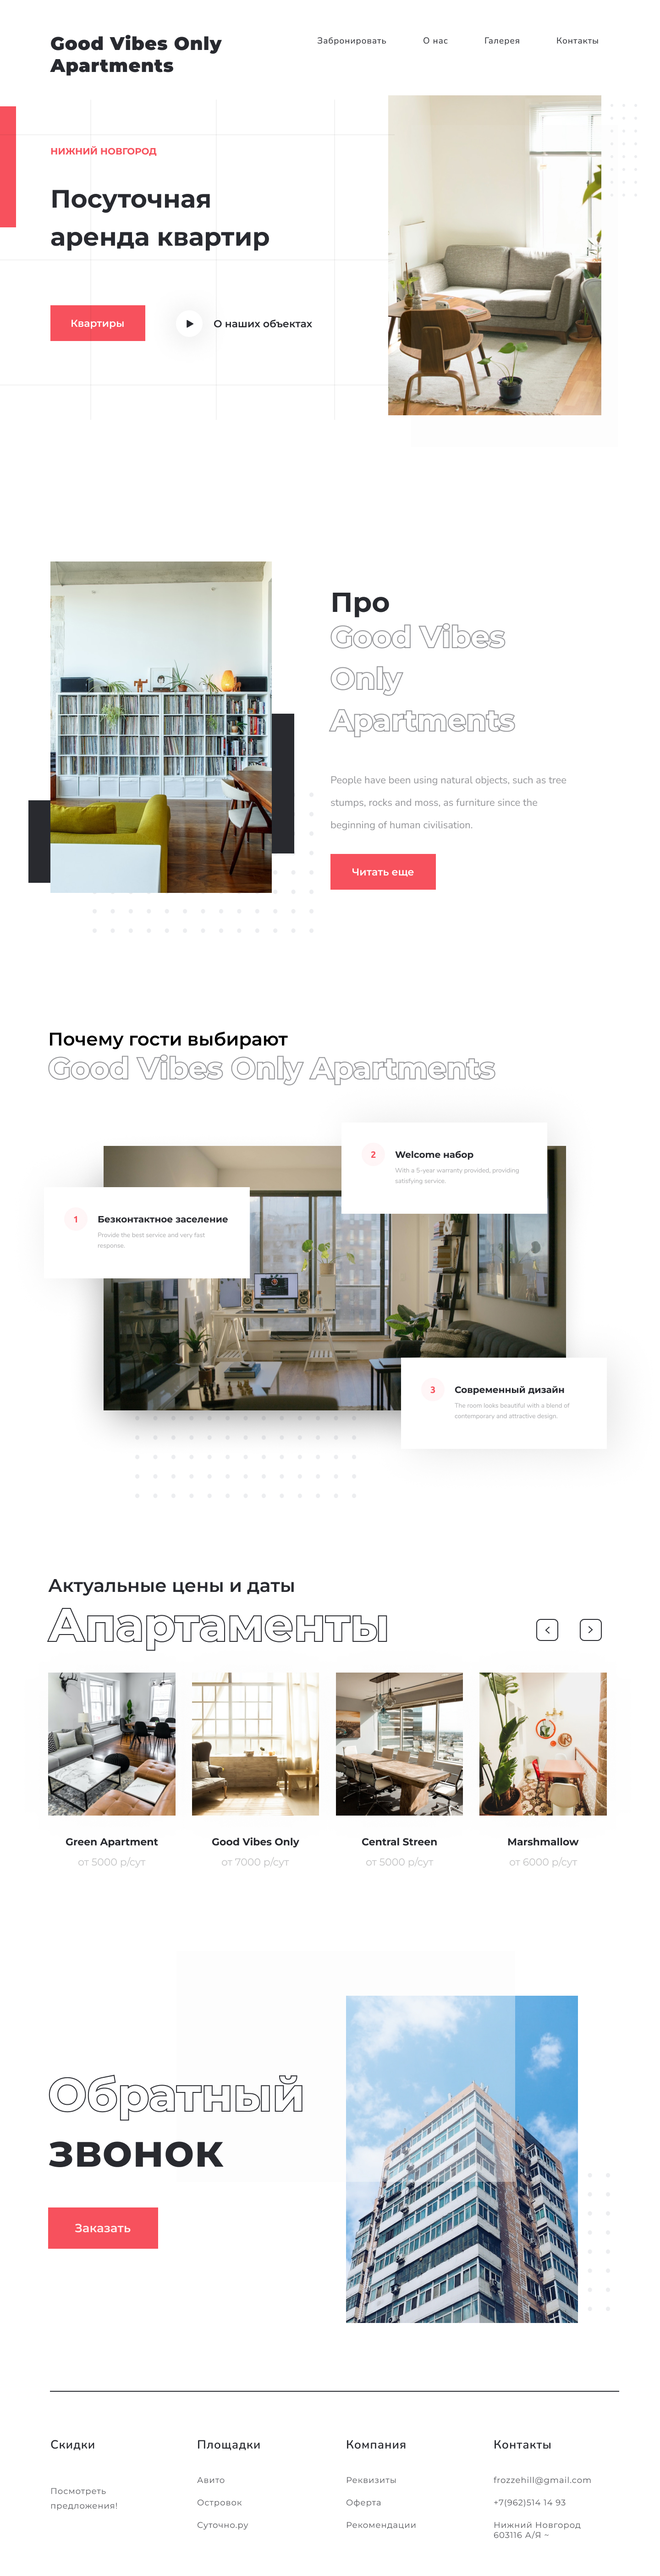
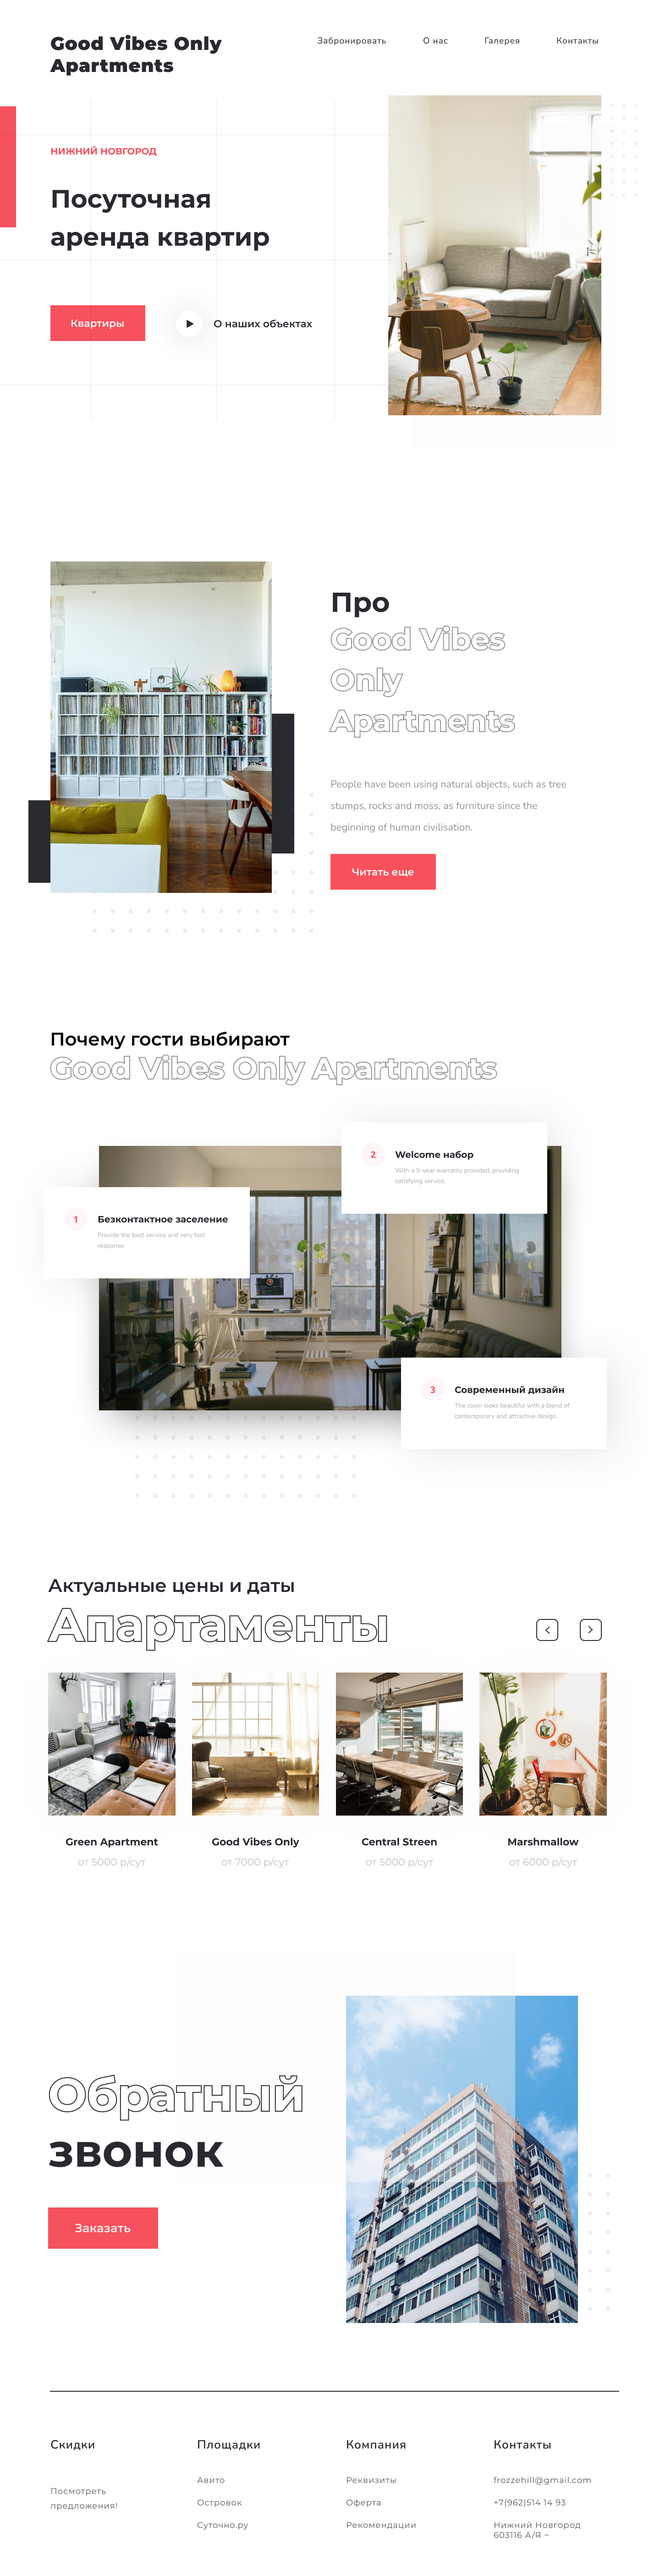
сверстан feature/advantage

diff --git a/index.html b/index.html
@@ -74,6 +74,42 @@
         <div class="about__rectangle_one"></div>
         <img src="./images/about__pattern.svg" alt="" class="about__pattern">
       </section>
+
+      <section class="advantage">
+        <h2 class="advantage__title">Почему гости выбирают
+          <snap class="advantage__span-accent">Good Vibes Only Apartments</snap>
+        </h2>
+        <img src="./images/advantage__image.jpg" alt="" class="advantage__image">
+        <div class="advantage__card advantage__card_one card">
+          <img src="./images/advantage__number_one.svg" alt="" class="card__number">
+          <div class="card__wrapper">
+            <h3 class="card__title">Безконтактное заселение</h3>
+            <p class="card__subtitle">Provide the best service and very fast
+              response.
+            </p>
+          </div>
+        </div>
+        <div class="advantage__card advantage__card_two card">
+          <img src="./images/advantage__number_two.svg" alt="" class="card__number">
+          <div class="card__wrapper">
+            <h3 class="card__title">Welcome набор</h3>
+            <p class="card__subtitle">With a 5-year warranty provided, providing
+              satisfying service.
+            </p>
+          </div>
+        </div>
+        <div class="advantage__card advantage__card_tree card">
+          <img src="./images/advantage__number_tree.svg" alt="" class="card__number">
+          <div class="card__wrapper">
+            <h3 class="card__title">Современный дизайн</h3>
+            <p class="card__subtitle">The room looks beautiful with a blend of
+              contemporary and attractive design.
+            </p>
+          </div>
+        </div>
+        <img src="./images/advantage__pattern.svg" alt="" class="advantage__pattern">
+      </section>
+
       <!-- <section class="intro">
         <h1 class="intro__title">Good Vibes Only Apartments</h1>
         <img src="./images/renovation/renovation__painter.svg" alt="" srcset="" class="intro__icon">

diff --git a/pages/index.css b/pages/index.css
@@ -74,3 +74,23 @@
 @import url(../blocks/about/__rectangle_two/about__rectangle_two.css);
 @import url(../blocks/about/__rectangle_one/about__rectangle_one.css);
 @import url(../blocks/about/__pattern/about__pattern.css);
+
+/* ======================== ADVANTEG ===================================== */
+
+@import url(../blocks/advantage/advantage.css);
+@import url(../blocks/advantage/__title/advantage__title.css);
+@import url(../blocks/advantage/__span-accent/advantage__span-accent.css);
+@import url(../blocks/advantage/__image/advantage__image.css);
+@import url(../blocks/advantage/__card/advantage__card.css);
+@import url(../blocks/advantage/__card/_one/advantage__card_one.css);
+@import url(../blocks/advantage/__card/_two/advantage__card_two.css);
+@import url(../blocks/advantage/__card/_tree/advantage__card_tree.css);
+
+@import url(../blocks/advantage/__pattern/advantage__pattern.css);
+
+/* ======================== CARD ===================================== */
+
+@import url(../blocks/card/card.css);
+@import url(../blocks/card/__title/card__title.css);
+@import url(../blocks/card/__subtitle/card__subtitle.css);
+@import url(../blocks/card/__number/card__number.css);

diff --git a/blocks/advantage/__span-accent/advantage__span-accent.css b/blocks/advantage/__span-accent/advantage__span-accent.css
@@ -1,0 +1,35 @@
+.advantage__span-accent {
+  display: block;
+
+  margin: 0;
+  padding: 0;
+
+  font-family: 'Montserrat', sans-serif;
+  font-size: 64px;
+  color: #FFFFFF;
+  text-shadow:
+    -0 -2px 0 rgba(40, 42, 48, 0.502),
+    0 -2px 0 rgba(40, 42, 48, 0.502),
+    -0 2px 0 rgba(40, 42, 48, 0.502),
+    0 2px 0 rgba(40, 42, 48, 0.502),
+    -2px -0 0 rgba(40, 42, 48, 0.502),
+    2px -0 0 rgba(40, 42, 48, 0.502),
+    -2px 0 0 rgba(40, 42, 48, 0.502),
+    2px 0 0 rgba(40, 42, 48, 0.502),
+    -1px -2px 0 rgba(40, 42, 48, 0.502),
+    1px -2px 0 rgba(40, 42, 48, 0.502),
+    -1px 2px 0 rgba(40, 42, 48, 0.502),
+    1px 2px 0 rgba(40, 42, 48, 0.502),
+    -2px -1px 0 rgba(40, 42, 48, 0.502),
+    2px -1px 0 rgba(40, 42, 48, 0.502),
+    -2px 1px 0 rgba(40, 42, 48, 0.502),
+    2px 1px 0 rgba(40, 42, 48, 0.502),
+    -2px -2px 0 rgba(40, 42, 48, 0.502),
+    2px -2px 0 rgba(40, 42, 48, 0.502),
+    -2px 2px 0 rgba(40, 42, 48, 0.502),
+    2px 2px 0 rgba(40, 42, 48, 0.502),
+    -2px -2px 0 rgba(40, 42, 48, 0.502),
+    2px -2px 0 rgba(40, 42, 48, 0.502),
+    -2px 2px 0 rgba(40, 42, 48, 0.502),
+    2px 2px 0 rgba(40, 42, 48, 0.502);
+}

diff --git a/blocks/card/card.css b/blocks/card/card.css
@@ -1,0 +1,17 @@
+.card {
+  display: flex;
+  flex-direction: row;
+  justify-content: flex-start;
+  align-items: flex-start;
+
+  margin: 0;
+  padding: 44px 47px 44px 44px;
+
+  max-width: 405px;
+  min-width: 400px;
+  min-height: 100px;
+
+  background-color: #FFF;
+
+  box-shadow: 20px 4px 100px rgba(0, 0, 0, 0.1);
+}

diff --git a/blocks/card/__subtitle/card__subtitle.css b/blocks/card/__subtitle/card__subtitle.css
@@ -1,0 +1,15 @@
+.card__subtitle {
+  max-width: 240px;
+
+  margin: 13px 0 0;
+  padding: 0;
+
+  font-family: 'Nunito', sans-serif;
+
+  font-style: normal;
+  font-weight: 400;
+  font-size: 14px;
+  line-height: 1.5;
+
+  color: rgba(40, 42, 48, 0.5);
+}

diff --git a/blocks/advantage/__back-shadow/advantage__back-shadow.css b/blocks/advantage/__back-shadow/advantage__back-shadow.css
@@ -1,0 +1,10 @@
+/* .advantage__back-shadow {
+  position: absolute;
+  width: 940px;
+  height: 511px;
+  left: calc((1440px - 100%) / 2);
+  top: 324px;
+
+  background: #FFFFFF;
+  box-shadow: 0px 4px 100px rgba(0, 0, 0, 0.5);
+} */

diff --git a/blocks/card/__title/card__title.css b/blocks/card/__title/card__title.css
@@ -1,0 +1,14 @@
+/* .card__title{} */
+.card__title {
+  max-width: 285px;
+
+  margin: 0;
+  padding: 0;
+
+  font-family: 'Montserrat', sans-serif;
+  font-weight: 700;
+  font-size: 20px;
+  line-height: 1.2;
+
+  color: #282A30;
+}

diff --git a/blocks/advantage/__title/advantage__title.css b/blocks/advantage/__title/advantage__title.css
@@ -1,0 +1,11 @@
+.advantage__title {
+  margin: 0;
+  padding: 0;
+
+  font-family: 'Montserrat', sans-serif;
+  font-weight: 600;
+  font-size: 40px;
+  line-height: 1.22;
+
+  color: #282A30;
+}

diff --git a/blocks/advantage/__image/advantage__image.css b/blocks/advantage/__image/advantage__image.css
@@ -1,0 +1,9 @@
+.advantage__image {
+  display: block;
+  max-width: 1009px;
+
+  margin: 131px auto 0;
+  padding: 0;
+  /* opacity: 0.5; */
+  box-shadow: 0px 4px 100px rgba(0, 0, 0, 0.5);
+}

diff --git a/blocks/advantage/advantage.css b/blocks/advantage/advantage.css
@@ -1,0 +1,10 @@
+.advantage {
+  max-width: 100%;
+
+  position: relative;
+
+  margin: 0 auto;
+  padding: 207px 0 192px;
+
+  background-color: rgba(255, 196, 0, 0.2);
+}

diff --git a/blocks/advantage/__pattern/advantage__pattern.css b/blocks/advantage/__pattern/advantage__pattern.css
@@ -1,0 +1,7 @@
+.advantage__pattern {
+  position: absolute;
+  height: 306px;
+  width: 482px;
+  left: 185px;
+  bottom: 0px;
+}

diff --git a/blocks/advantage/__card/_tree/advantage__card_tree.css b/blocks/advantage/__card/_tree/advantage__card_tree.css
@@ -1,0 +1,4 @@
+.advantage__card_tree {
+  right: -37px;
+  bottom: 122px;
+}
